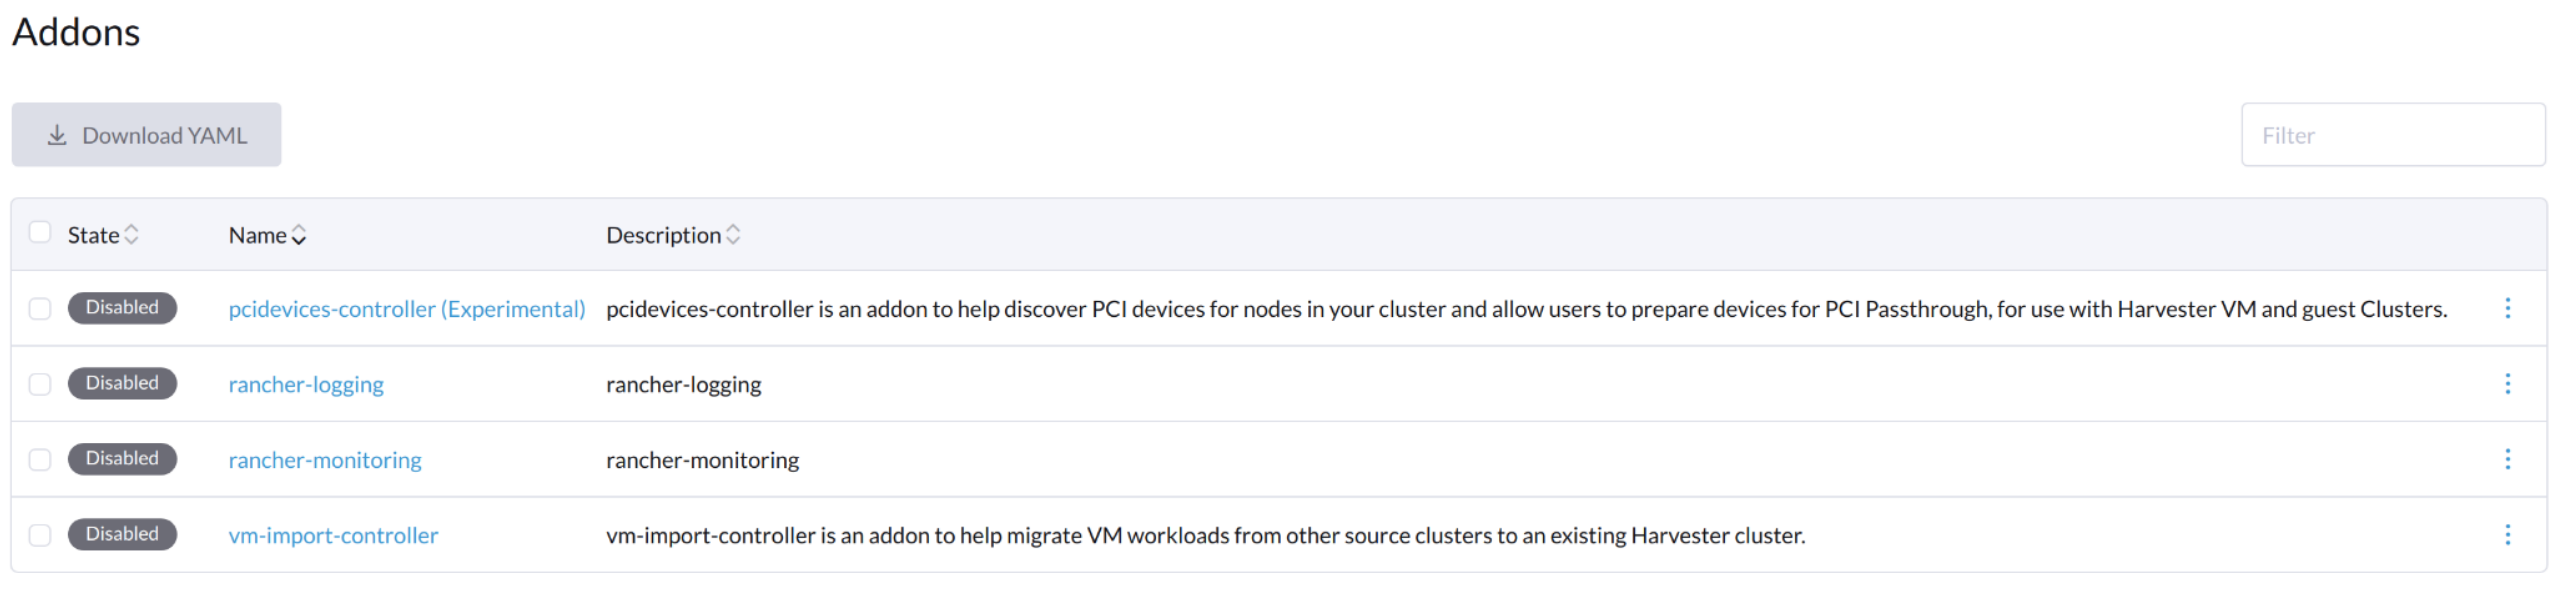
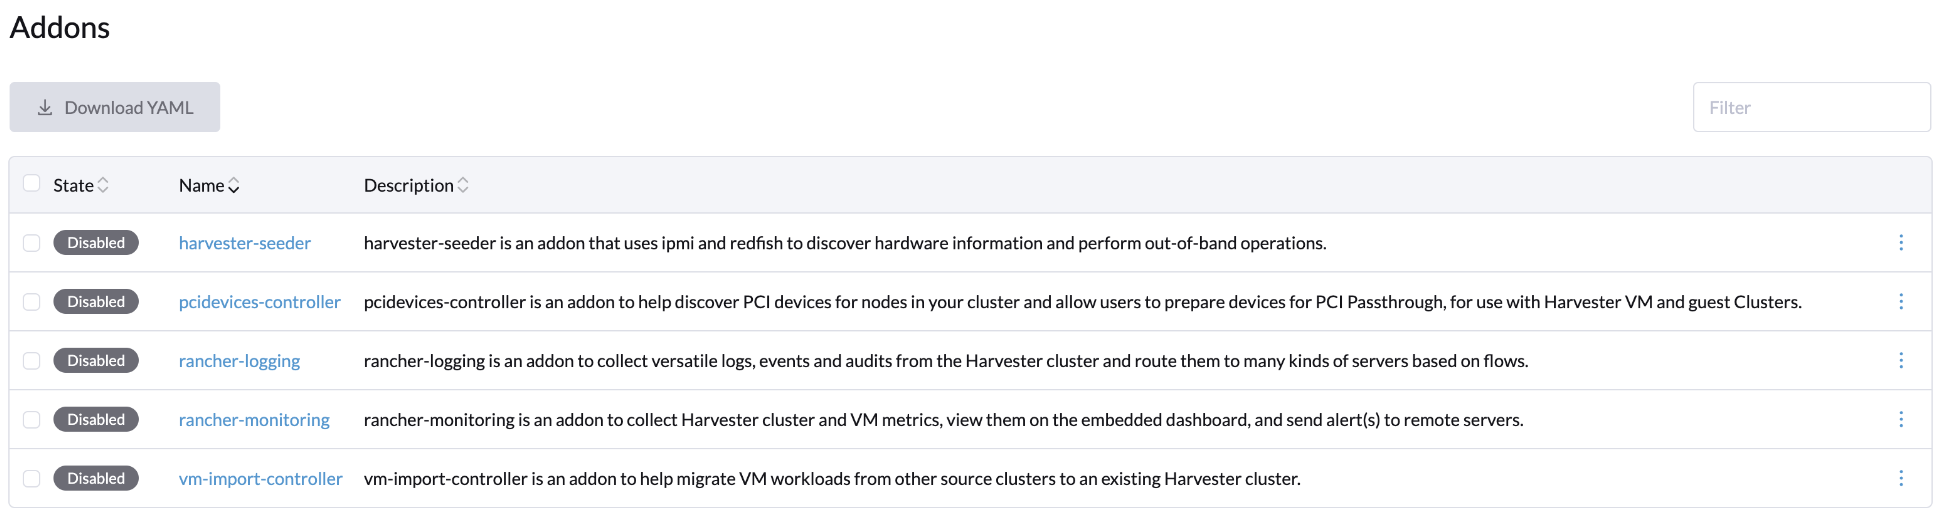
Update monitoring and logging doc to v1.2.0 version

diff --git a/docs/monitoring/harvester-monitoring.md b/docs/monitoring/harvester-monitoring.md
@@ -8,10 +8,6 @@ title: "Monitoring"
   <link rel="canonical" href="https://docs.harvesterhci.io/v1.1/monitoring/harvester-monitoring"/>
 </head>
 
-_Available as of v0.3.0_
-
-The monitoring feature is enabled by default.
-
 _Available as of v1.2.0_
 
 The monitoring feature is now implemented with an addon and is disabled by default in new installations.
@@ -20,7 +16,7 @@ Users can enable/disable `rancher-monitoring` [addon](../advanced/addons.md) fro
 
 Users can also enable/disable the `rancher-monitoring` addon in their Harvester installation by customizing the [harvester-configuration](../install/harvester-configuration.md#installaddons) file.
 
-For Harvester clusters upgraded from v1.1.*, the monitoring feature is converted to an addon automatically and kept enabled as before.
+For Harvester clusters upgraded from version v1.1.x, the monitoring feature is converted to an addon automatically and kept enabled as before.
 
 ## Dashboard Metrics
 Harvester has provided a built-in monitoring integration using [Prometheus](https://prometheus.io/). Monitoring is automatically enabled during the Harvester installations.
@@ -66,23 +62,30 @@ The corresponding `Memory Usage` is `(1 - 4.6/7.7) * 100%`, roughly `40%`.
 
 ## How to Configure Monitoring Settings
 
-_Available as of v1.0.1_
+_Available as of v1.0.2_
 
 Monitoring has several components that help to collect and aggregate metric data from all Nodes/Pods/VMs. The resources required for monitoring depend on your workloads and hardware resources. Harvester sets defaults based on general use cases, and you can change them accordingly.
 
 Currently, `Resources Settings` can be configured for the following components:
 
 - Prometheus
-- Prometheus Node Exporter(_UI configurable as of v1.0.2_)
+- Prometheus Node Exporter
 
-### From WebUI
+### From UI
 
-On the `Monitoring & Logging` page, you can view and change the resource settings as follows:
+On the **Advanced** page, you can view and change the resource settings as follows:
 
-1. Navigate to the `Monitoring > Configuration` page.
-![](/img/v1.2/monitoring/monitoring-config.png)
+ 1. Go to the **Advanced** > **Addons** page and select the **rancher-monitoring** page.
+ 2. From the **Prometheus** tab, change the resource requests and limits.
+ 3. Select **Save** when finished configuring the settings for the **rancher-monitoring** addon. The **Monitoring** deployments restart within a few seconds. Please be aware that the reboot can take time to reload previous data.
 
-1. Click `Save` and the `Monitoring` resource will be restarted within a few seconds. Please be aware that the reboot can take some time to reload previous data.
+![](/img/v1.2/monitoring/modify-prometheus-settings-from-addon.png)
+
+:::note
+
+The UI configuration is only visible when the **rancher-monitoring** addon is enabled.
+
+:::
 
 **The most frequently used option is the memory setting:**
 
@@ -106,29 +109,36 @@ When an increasing number of VMs get deployed on one node, the `prometheus-node-
 
 ### From CLI
 
-To update those values, you can also use the CLI command with: `$kubectl edit managedchart rancher-monitoring -n fleet-local`.
+You can use the following `kubectl` command to change resource configurations for the `rancher-monitoring` addon: `kubectl edit addons.harvesterhci.io -n cattle-monitoring-system rancher-monitoring`.
 
-For Harvester version `>= v1.0.1`, the related path and default value are:
+The resource path and default values are as follows:
 
-```yaml
-# Prometheus configs
-spec.values.prometheus.prometheusSpec.resources.limits.cpu: 1000m
-spec.values.prometheus.prometheusSpec.resources.limits.memory: 2500Mi
-spec.values.prometheus.prometheusSpec.resources.requests.cpu: 750m
-spec.values.prometheus.prometheusSpec.resources.requests.memory: 1750Mi
----
-# node exporter configs
-spec.values.prometheus-node-exporter.resources.limits.cpu: 200m
-spec.values.prometheus-node-exporter.resources.limits.memory: 180Mi
-spec.values.prometheus-node-exporter.resources.requests.cpu: 100m
-spec.values.prometheus-node-exporter.resources.requests.memory: 30Mi
+```
+apiVersion: harvesterhci.io/v1beta1
+kind: Addon
+metadata:
+  name: rancher-monitoring
+  namespace: cattle-monitoring-system
+spec:
+  valuesContent: |
+    prometheus:
+      prometheusSpec:
+        resources:
+          limits:
+            cpu: 1000m
+            memory: 2500Mi
+          requests:
+            cpu: 850m
+            memory: 1750Mi
 ```
 
-For versions `<= v1.0.0`, the related path and default value are not specified in the `managedchart rancher-monitoring`, you need to add them accordingly.
+:::note
+
+You can still make configuration adjustments when the addon is disabled. However, these changes only take effect when you re-enable the addon.
+
+:::
 
 ## Alertmanager
-
-_Available as of v1.1.0_
 
 `Harvester` uses `Alertmanager` to collect and manage all the alerts that happened/happening in the cluster.
 
@@ -138,7 +148,7 @@ _Available as of v1.1.0_
 
 `Alertmanager` is enabled by default. You may disable it from the following config path.
 
-![](/img/v1.2/monitoring/alertmanager-config-enable-and-resource.png)
+![](/img/v1.2/monitoring/modify-alertmanager-from-addon.png)
 
 #### Change Resource Setting
 

diff --git a/docs/logging/harvester-logging.md b/docs/logging/harvester-logging.md
@@ -13,7 +13,7 @@ keywords:
   <link rel="canonical" href="https://docs.harvesterhci.io/v1.1/logging/harvester-logging"/>
 </head>
 
-_Available as of v1.1.0_
+_Available as of v1.2.0_
 
 It is important to know what is happening/has happened in the `Harvester Cluster`.
 
@@ -25,15 +25,13 @@ It is important to know what is happening/has happened in the `Harvester Cluster
 The size of logging data is related to the cluster scale, workload and other factors. `Harvester` does not use persistent storage to store log data inside the cluster. Users need to set up a log server to receive logs accordingly.
 :::
 
-_Available as of v1.2.0_
-
 The logging feature is now implemented with an addon and is disabled by default in new installations.
 
-Users can enable/disable the `rancher-logging` [addon](../advanced/addons.md) from the Harvester WebUI after installation.
+Users can enable/disable the `rancher-logging` [addon](../advanced/addons.md) from the Harvester UI after installation.
 
 Users can also enable/disable the `rancher-logging` addon in their Harvester installation by customizing the [harvester-configuration](../install/harvester-configuration.md#installaddons) file.
 
-For Harvester clusters upgraded from v1.1.*, the logging feature is converted to an addon automatically and kept enabled as before.
+For Harvester clusters upgraded from version v1.1.x, the logging feature is converted to an addon automatically and kept enabled as before.
 
 ## High-level Architecture
 
@@ -70,32 +68,56 @@ If desired, you can modify how many resources are dedicated to those components.
 
 #### From UI
 
- 1. Navigate to the `Configuration` page under `Monitoring & Logging > Logging`.
- 2. Under the `Fluentbit` tab, change the resource requests and limits.
- 3. Under the `Fluentd` tab, change the resource requests and limits.
- 4. Click `Save` on the bottom right of the screen.
+ 1. Go to the **Advanced** > **Addons** page and select the **rancher-logging** addon.
+ 2. From the **Fluentbit** tab, change the resource requests and limits.
+ 3. From the **Fluentd** tab, change the resource requests and limits.
+ 4. Select **Save** when finished configuring the settings for the **rancher-logging** addon. 
 
-![](/img/v1.2/logging/modify-logging-fluent-resources.png)
+![](/img/v1.2/logging/modify-logging-resources-from-addon.png)
+
+:::note
+
+The UI configuration is only visible when the **rancher-logging** addon is enabled.
+
+:::
 
 #### From CLI
 
-You can also change the resource configurations from the command line using `kubectl edit managedchart -n fleet-local rancher-logging` and modifying the relevant files.
+You can use the following `kubectl` command to change resource configurations for the `rancher-logging` addon: `kubectl edit addons.harvesterhci.io -n cattle-logging-system rancher-logging`.
 
-For harvester version `>= v1.1.0`, the related paths and default values are:
+The resource path and default values are as follows.
 
-```yaml
-# fluentbit
-values.fluentbit.resources.limits.cpu: 200m
-values.fluentbit.resources.limits.memory: 200mi
-values.fluentbit.resources.requests.cpu: 50m
-values.fluentbit.resources.requests.memory: 50mi
----
-#fluentd
-values.fluentbit.resources.limits.cpu: 200m
-values.fluentbit.resources.limits.memory: 200mi
-values.fluentbit.resources.requests.cpu: 50m
-values.fluentbit.resources.requests.memory: 50mi
 ```
+apiVersion: harvesterhci.io/v1beta1
+kind: Addon
+metadata:
+  name: rancher-logging
+  namespace: cattle-logging-system
+spec:
+  valuesContent: |
+    fluentbit:
+      resources:
+        limits:
+          cpu: 200m
+          memory: 200Mi
+        requests:
+          cpu: 50m
+          memory: 50Mi
+    fluentd:
+      resources:
+        limits:
+          cpu: 1000m
+          memory: 800Mi
+        requests:
+          cpu: 100m
+          memory: 200Mi
+```
+
+:::note
+
+You can still make configuration adjustments when the addon is disabled. However, these changes only take effect when you re-enable the addon.
+
+:::
 
 ### Configuring Log Destinations
 

diff --git a/docs/advanced/addons.md b/docs/advanced/addons.md
@@ -8,25 +8,45 @@ title: "Addons"
   <link rel="canonical" href="https://docs.harvesterhci.io/v1.1/advanced/addons"/>
 </head>
 
-_Available as of v1.1.0_
-
-Beginning with v1.1.0, Harvester will make optional functionality available as Addons.
+Harvester makes optional functionality available as Addons.
 
 One of the key reasons for the same is to ensure that Harvester installation footprint can be kept low while allowing users to enable/disable functionality based on their use case or requirements.
 
 Some level of customization is allowed for each addon, which depends on the underlying addon.
 
-v1.1.0 currently ships with two Addons:
-* [pcidevices-controller](./pcidevices.md)
-* [vm-import-controller](./vmimport.md)
-
-![](/img/v1.2/addons/DefaultAddons.png)
-
 _Available as of v1.2.0_
 
-v1.2.0 ships with two more Addons:
-
+Harvester v1.2.0 ships with five Addons:
+* [pcidevices-controller](./pcidevices.md)
+* [vm-import-controller](./vmimport.md)
 * [rancher-monitoring](../monitoring/harvester-monitoring.md)
 * [rancher-logging](../logging/harvester-logging.md)
+* [harvester-seeder](https://github.com/harvester/seeder)
 
 ![](/img/v1.2/addons/AddonsV120.png)
+
+:::note
+
+**harvester-seeder** is released as an experimental feature in Harvester v1.2.0 and has an **Experimental** label added to the **Name**.
+
+:::
+
+You can enable a **Disabled** by choosing an addon and selecting **⋮** > **Enable** from the **Basic** tab.
+
+![](/img/v1.2/addons/enable-rancher-logging-addon.png)
+
+When the addon is enabled successfully, the **State** will be **DeploySuccessful**.
+
+![](/img/v1.2/addons/deploy-successful-addon.png)
+
+You can disable an **Enabled** by choosing an addon and selecting **⋮** > **Disable** or from the **Basic** tab.
+
+![](/img/v1.2/addons/disable-rancher-monitoring-addon.png)
+
+When the addon is disabled successfully, the **State** will be **Disabled**.
+
+:::note
+
+When an addon is disabled, the configuration data is stored to reuse when the addon is enabled again.
+
+:::
